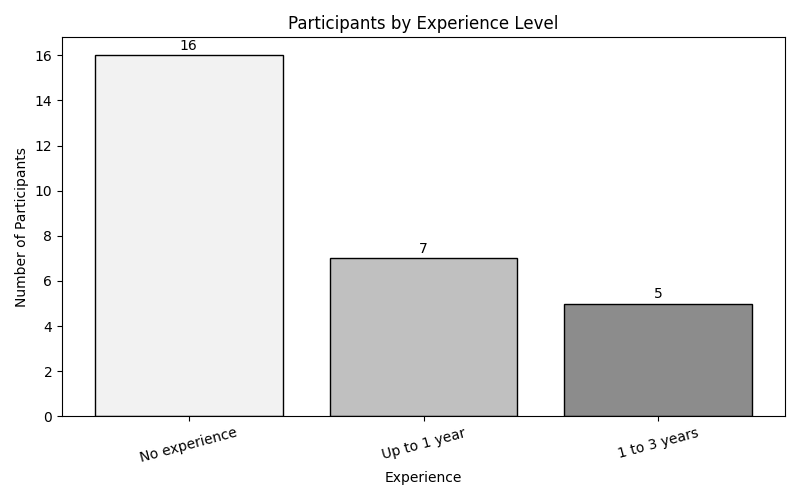
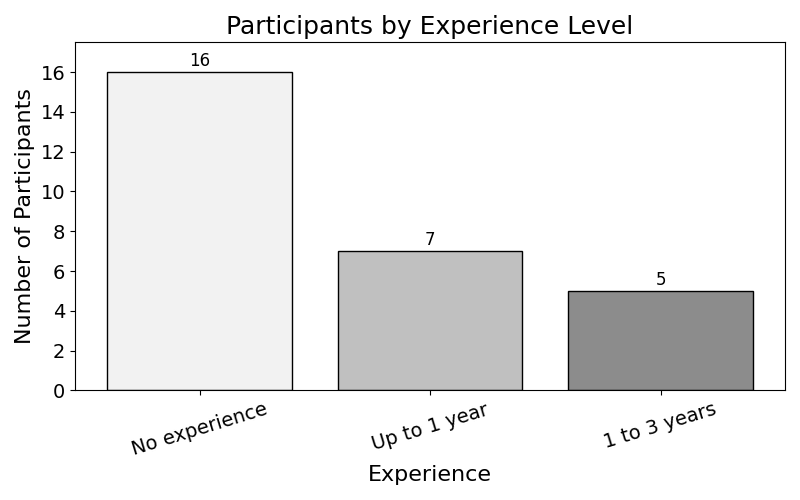
Rename endpoint for LLM usage to LLM grades and update SQL query to fetch grades from tasks table

Changed region(s): [[0.0, 0.03, 0.9688, 0.93], [0.4062, 0.48, 0.6562, 0.99], [0.6875, 0.54, 0.9688, 0.9]]

diff --git a/client/participants_characterization.py b/client/participants_characterization.py
@@ -101,12 +101,28 @@ def experience():
     # Add values on top of bars
     for bar in bars:
         height = bar.get_height()
-        plt.text(bar.get_x() + bar.get_width()/2, height + 0.1, str(height), ha='center', va='bottom')
+        plt.text(
+            bar.get_x() + bar.get_width()/2,
+            height + 0.1,
+            str(height),
+            ha='center',
+            va='bottom',
+            fontsize=12
+        )
 
-    plt.title("Participants by Experience Level")
-    plt.xlabel("Experience")
-    plt.ylabel("Number of Participants")
-    plt.xticks(rotation=15)
+    # Titles and labels
+    plt.title("Participants by Experience Level", fontsize=18)
+    plt.xlabel("Experience", fontsize=16)
+    plt.ylabel("Number of Participants", fontsize=16)
+
+    # Ticks
+    plt.xticks(rotation=17, fontsize=14)
+    plt.yticks(fontsize=14)
+
+    # Ajusta o limite do eixo Y para evitar que os números no topo das barras sejam cortados
+    max_value = max(values)
+    plt.ylim(top=max_value + 1.5)  # você pode ajustar o valor se necessário
+
     plt.tight_layout()
     plt.savefig("./figs/experience.png")
 

diff --git a/client/main.py b/client/main.py
@@ -10,6 +10,7 @@ if __name__ == "__main__":
                     "4 - Boxplot LLM usage by grade\n" \
                     "5 - Specific Knowledge by Topic\n" \
                     "6 - Positive LLM usage diagram\n" \
+                    "7 - Boxplot LLM usage by LLM grade\n" \
                     "0 - Exit\n")
     
     if graph == "1":
@@ -31,5 +32,8 @@ if __name__ == "__main__":
     elif graph == "6":
         print("Generating Positive LLM usage diagram...")
         positive_usage_llm()
+    elif graph == "7":
+        print("Generating Boxplot for LLM usage by LLM grade...")
+        boxplotLLM('grad_llm')
     elif graph == "0":
         print("Exiting...")

diff --git a/server/routers/database.py b/server/routers/database.py
@@ -50,8 +50,8 @@ async def get_results(db: AsyncSession = Depends(get_db)):
     rows = result.mappings().all()
     return {"Results": [dict(row) for row in rows]}
 
-@router.get("/llm_usage")
+@router.get("/llm_grades")
 async def get_results(db: AsyncSession = Depends(get_db)):
-    result = await db.execute(text("SELECT code, positive_llm, negative_llm FROM participants"))
+    result = await db.execute(text("SELECT llm, grad_llm FROM tasks"))
     rows = result.mappings().all()
-    return {"Usage" : [dict(row) for row in rows]}
+    return {"Grades" : [dict(row) for row in rows]}

diff --git a/client/results.py b/client/results.py
@@ -49,6 +49,11 @@ def boxplotLLM(column):
         plt.legend()
         plt.tight_layout()
         plt.savefig("./figs/boxplot_grade_llm.png")
+    elif column == 'grad_llm':
+        plt.ylabel("LLM Grade")
+        plt.legend()
+        plt.tight_layout()
+        plt.savefig("./figs/boxplot_grade_by_llm.png")
 
 
 def positive_usage_llm():
@@ -105,7 +110,3 @@ def positive_usage_llm():
     )
 
     fig.show()
-
-
-
-positive_usage_llm()

diff --git a/README.md b/README.md
@@ -12,3 +12,5 @@ Navigate to the client folder, run main.py, and choose a graph to display.
 - sudo docker exec -it api-db-1 psql -U user -d mydatabase
 - sudo docker compose down -v  # remove volumes to force re-initialization
 - sudo docker compose up --build -d # run in detach mode
+- sudo docker volume ls
+- sudo docker volume rm sbqs-2025-llmreq_pgdata
